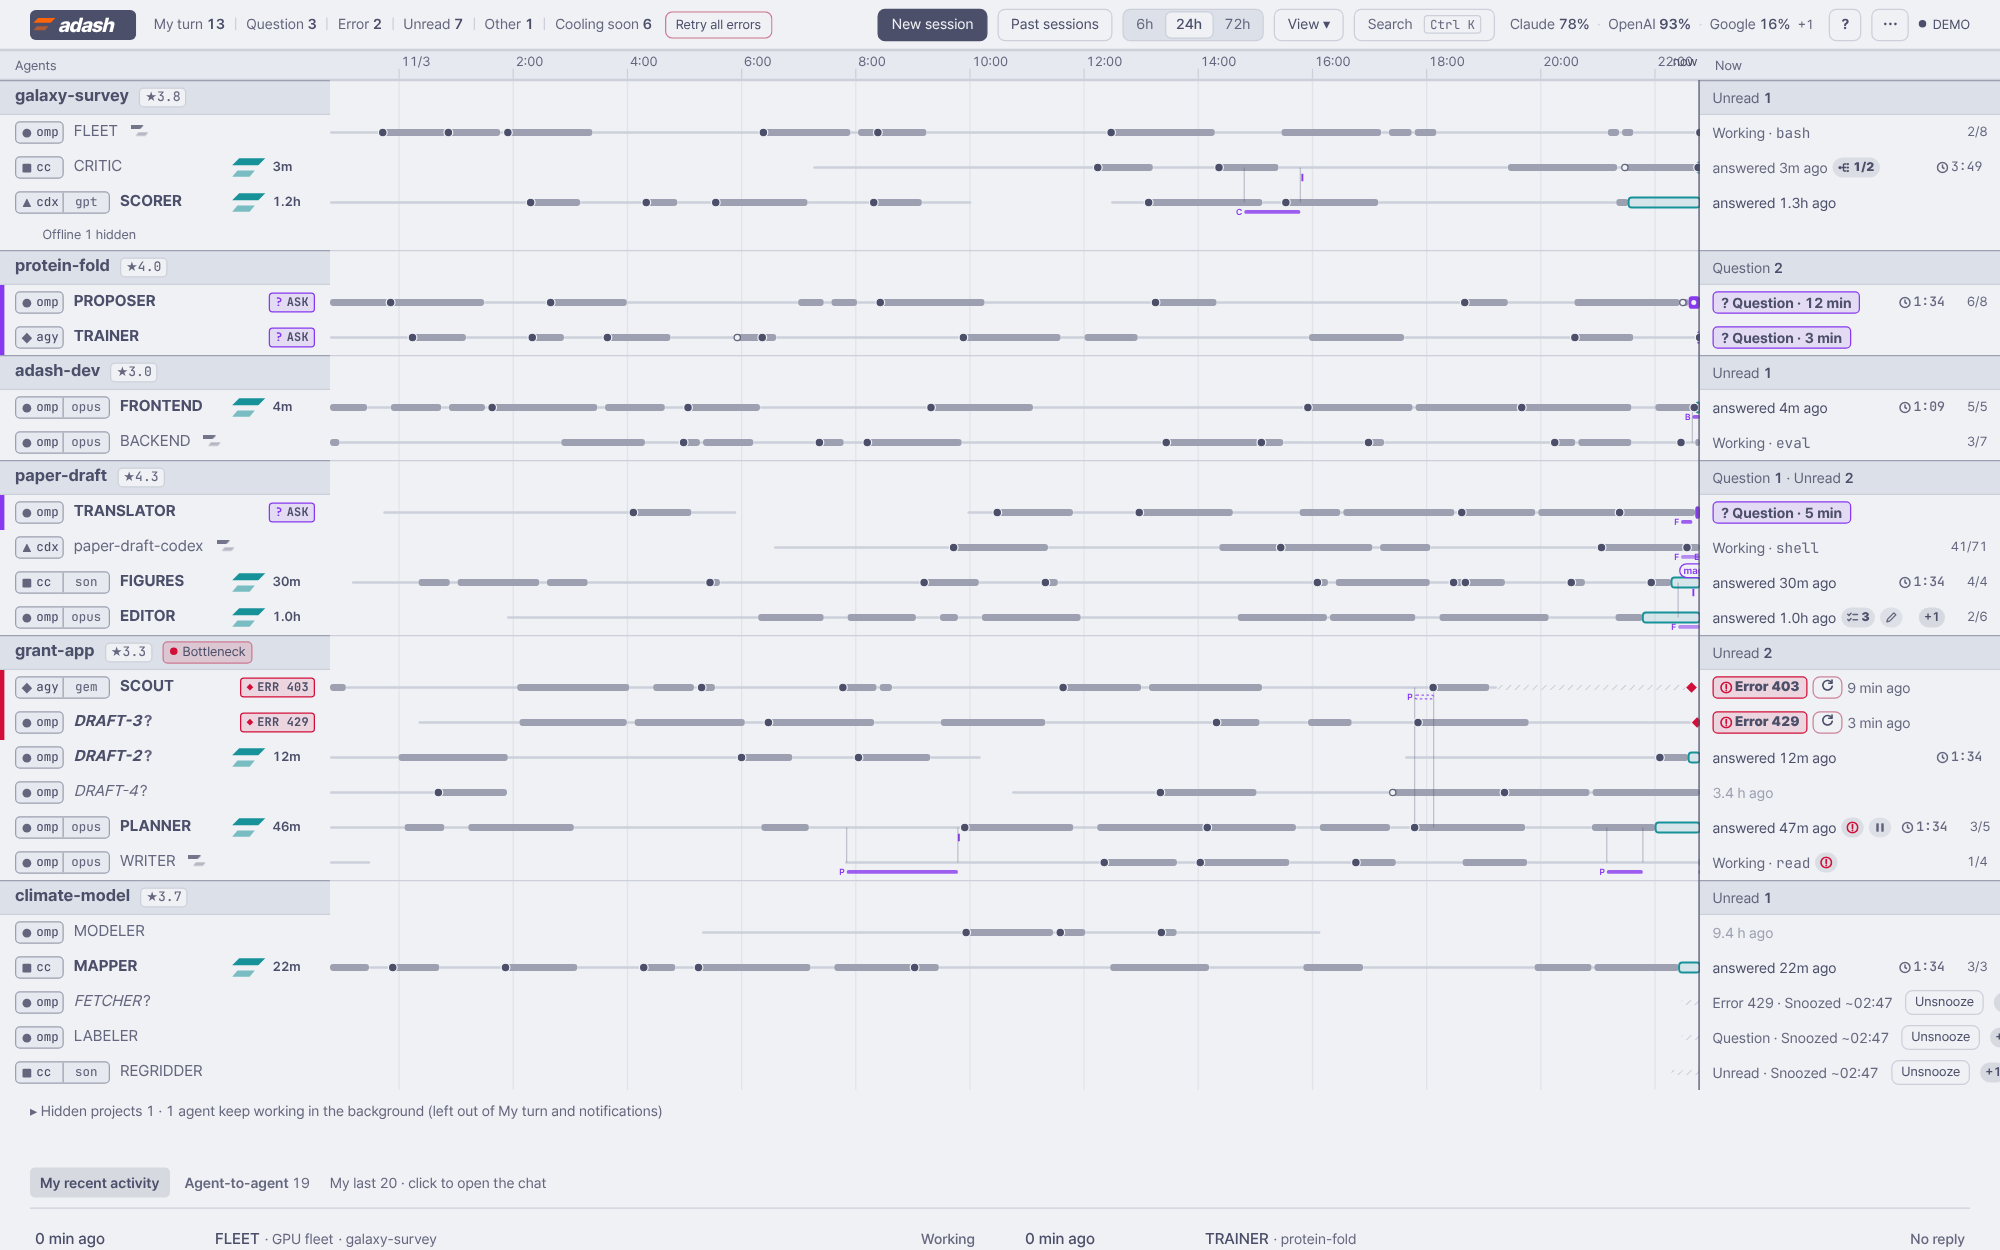
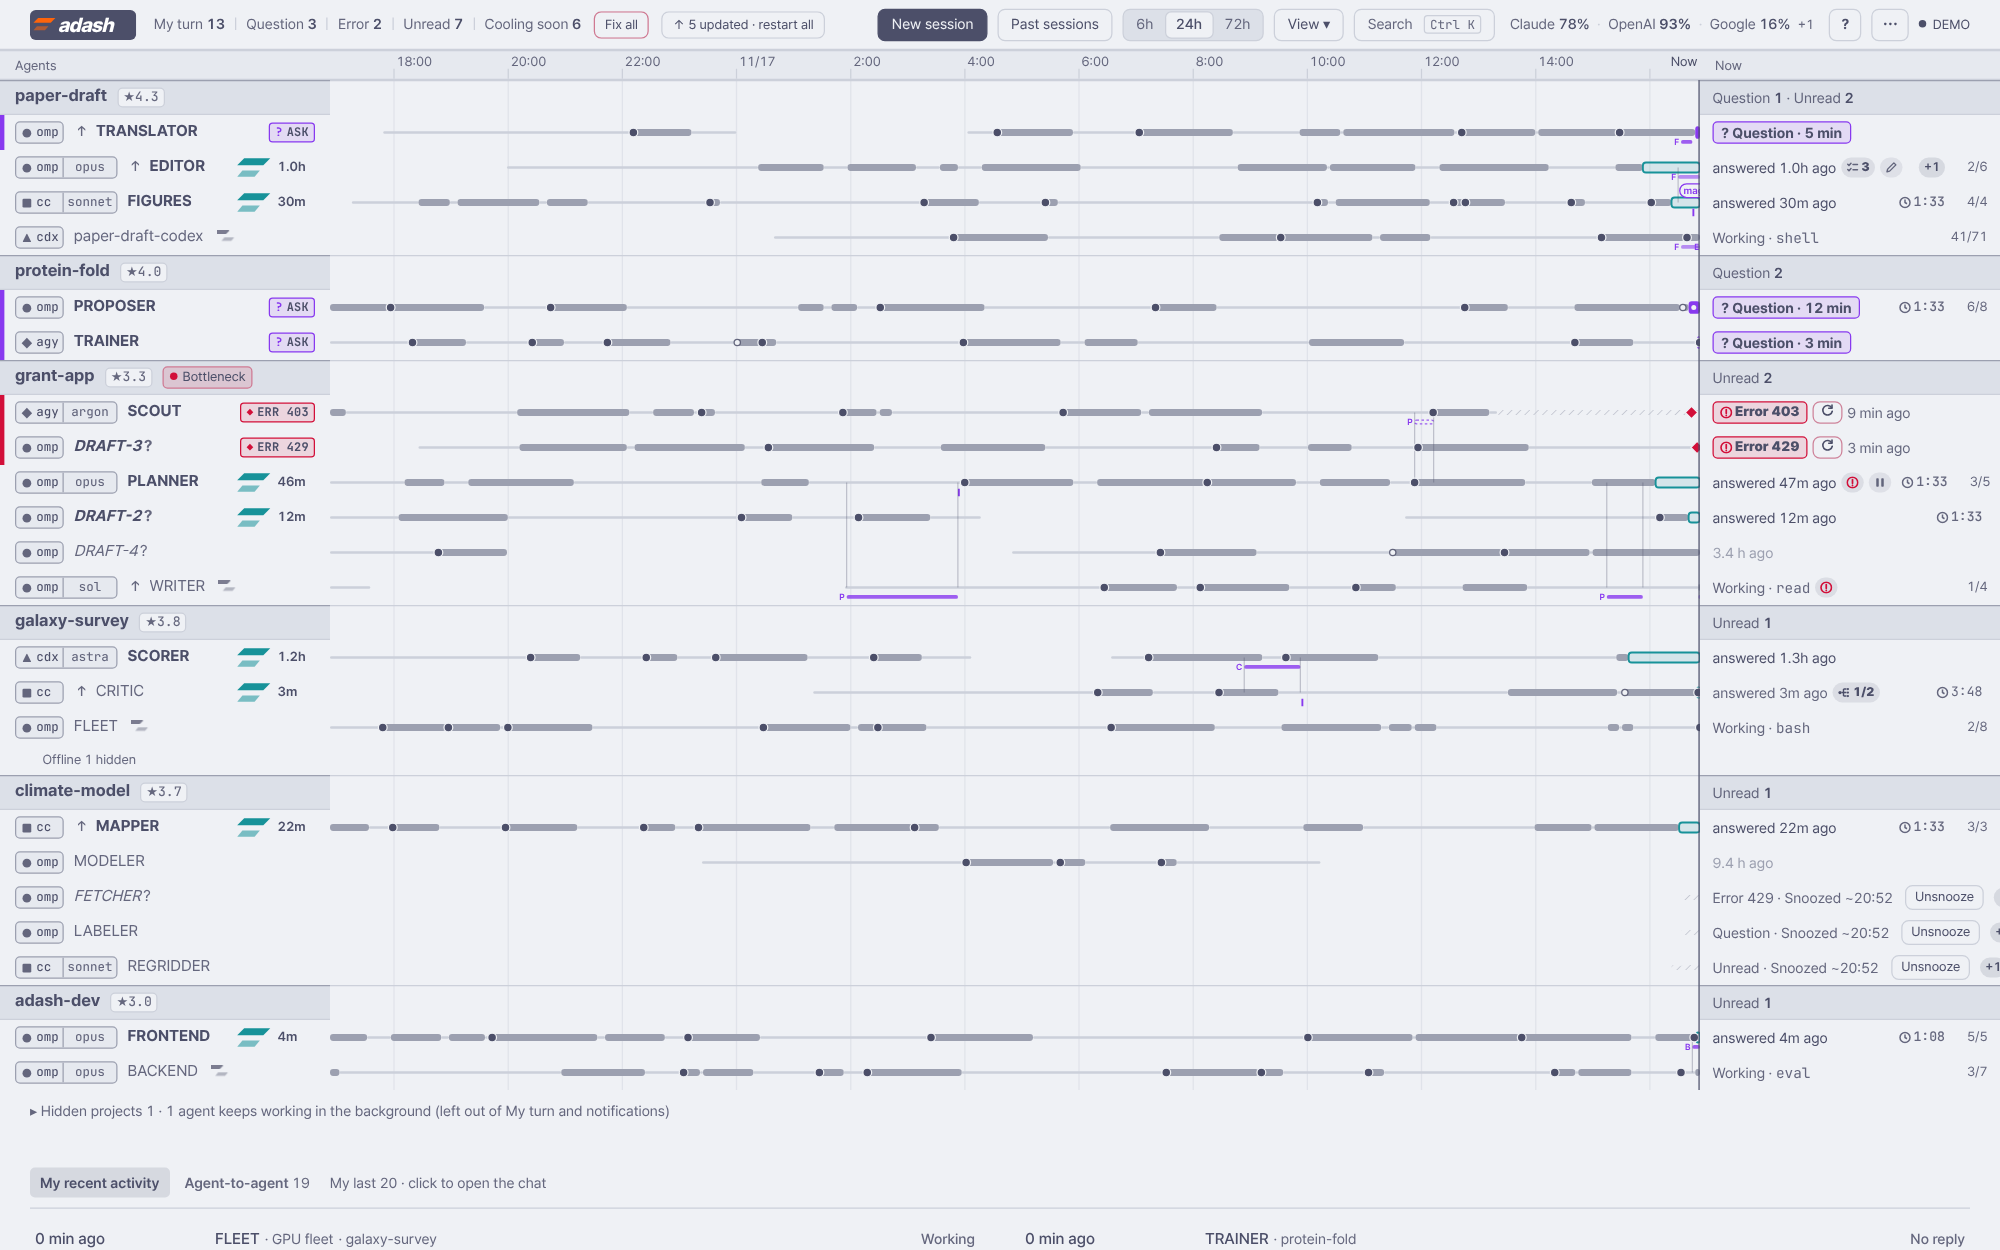
README v2 media: core-loop demo GIF, board retake; axis labels never overlap Now; fixture request toast only with ?debug=1

diff --git a/web/app.js b/web/app.js
@@ -251,7 +251,8 @@
   // ---------- fixture stubs ----------
   function fixtureApi(method, path, body) {
     console.log("[fixture] would send", method, path, method === "GET" ? "" : "X-Adash: 1", body === undefined ? "" : JSON.stringify(body));
-    if (method !== "GET" && !path.endsWith("/stat")) toast(`[fixture] ${method} ${path}${body === undefined ? "" : " " + JSON.stringify(body)}`.slice(0, 300));
+    // The request toast is a developer aid (?debug=1); demo viewers see only the app's own toasts.
+    if (method !== "GET" && !path.endsWith("/stat") && /[?&]debug=1\b/.test(location.search)) toast(`[fixture] ${method} ${path}${body === undefined ? "" : " " + JSON.stringify(body)}`.slice(0, 300));
     if (method === "GET" && path === "/api/meta") return structuredClone(fixtureData.meta);
     if (path === "/api/request-names") {
       const amb = fixtureData.agents.filter((a) => a.ambiguous);
@@ -1519,10 +1520,13 @@
       const d = new Date(t);
       if (d.getHours() % step) continue;
       if (X(t) > W - 34) continue;
-      ticks.push({ x: X(t), label: d.getHours() === 0 ? `${d.getMonth() + 1}/${d.getDate()}` : `${d.getHours()}시` });
+      ticks.push({ x: X(t), label: d.getHours() === 0 ? `${d.getMonth() + 1}/${d.getDate()}` : L2(`${d.getHours()}시`, `${d.getHours()}:00`) });
     }
     H("#axis").innerHTML = ticks.map((k) => `<line x1="${k.x.toFixed(1)}" x2="${k.x.toFixed(1)}" y1="14" y2="22" stroke="var(--border)"></line><text x="${(k.x + 2).toFixed(1)}" y="12">${k.label}</text>`).join("") +
-      `<text class="now" x="${W - 2}" y="12" text-anchor="end">지금</text>`;
+      `<text class="now" x="${W - 2}" y="12" text-anchor="end">${L2("지금", "Now")}</text>`;
+    // A tick label that would run into the "Now" label (wider in English / larger fonts) is dropped, line kept.
+    { const ax = $("#axis"), nowT = ax.querySelector("text.now"), nb = nowT?.getBBox?.();
+      if (nb && nb.width) for (const t of ax.querySelectorAll("text:not(.now)")) { const b = t.getBBox(); if (b.x + b.width > nb.x - 6) t.remove(); } }
     const svg = [];
     svg.push(`<defs><pattern id="err-stripe" width="5" height="5" patternUnits="userSpaceOnUse" patternTransform="rotate(-45)"><rect width="5" height="5" fill="var(--err-bg)"></rect><line x1="0" y1="0" x2="0" y2="5" stroke="var(--cold)" stroke-width="2.4"></line></pattern><pattern id="hatch" width="5" height="5" patternUnits="userSpaceOnUse" patternTransform="rotate(45)"><line x1="0" y1="0" x2="0" y2="5" stroke="var(--timeline-snoozed)" stroke-width="1.2" opacity=".6"></line></pattern>
       <marker id="arr" viewBox="0 0 8 8" refX="7" refY="4" markerWidth="6" markerHeight="6" orient="auto-start-reverse"><path class="arr" d="M0,0 L8,4 L0,8 z"></path></marker></defs>`);
